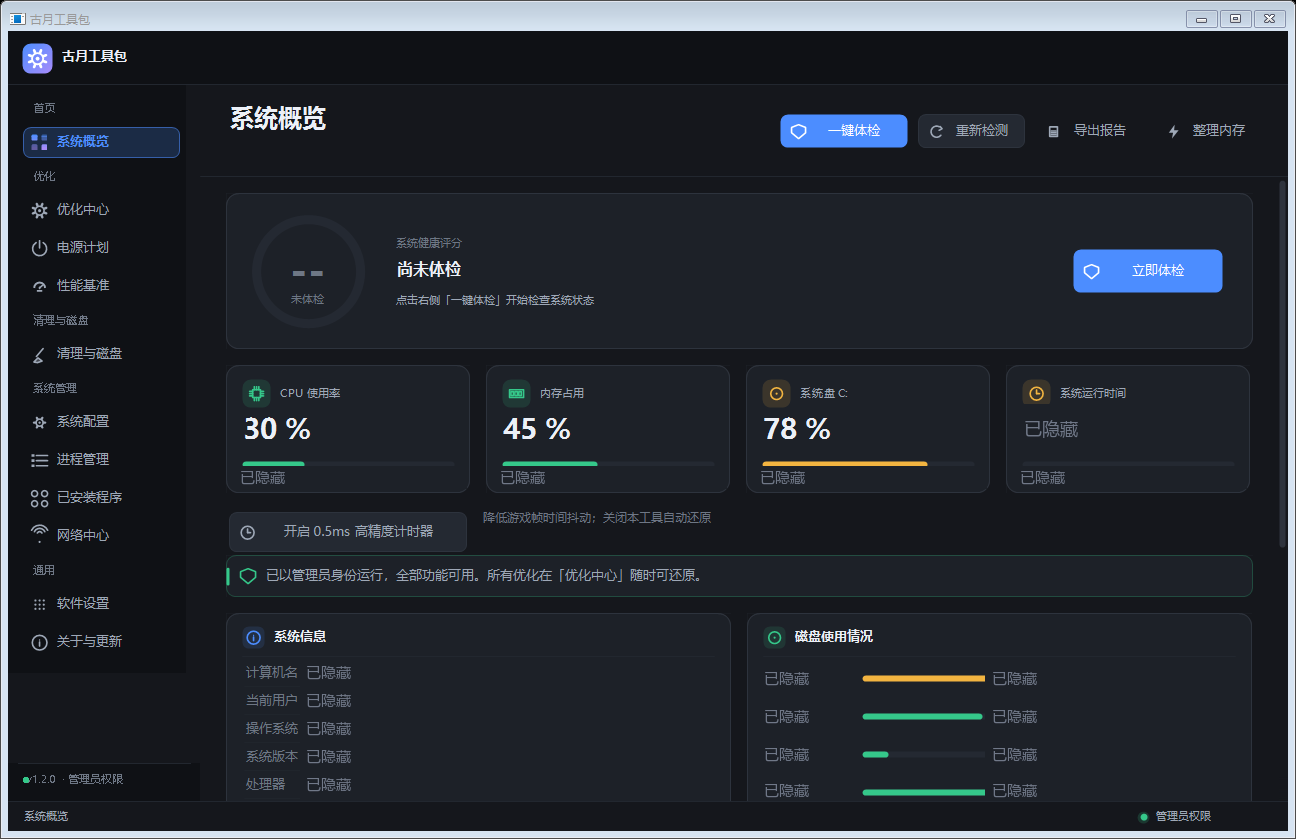
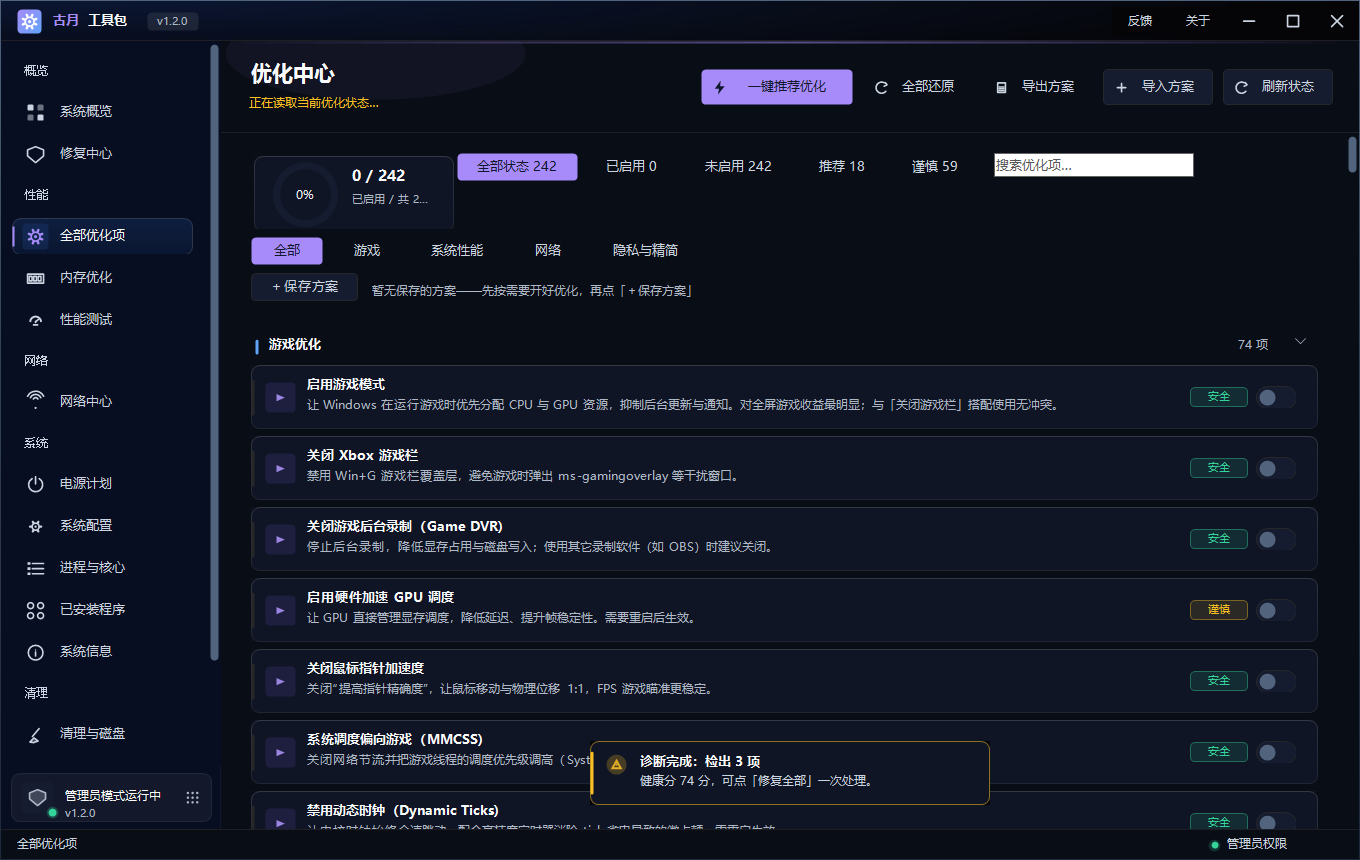
v1.2.0 官网全量更新：index.html 重构为 6 分组 14 页 28 面板（新增修复中心/内存优化/系统信息/CPU核心调度/Hosts编辑/优化包管理）；首屏截图换新版优化中心页；changelog 补 v1.2.0 条目；update.json 换新 exe sha256

diff --git a/index.html b/index.html
@@ -4,20 +4,20 @@
   <meta charset="UTF-8" />
   <meta name="viewport" content="width=device-width, initial-scale=1.0" />
   <title>古月工具包 GuyueBox — Windows 系统优化与管理工具</title>
-  <meta name="description" content="古月工具包（GuyueBox）是一款 Windows 系统优化工具，用 C# / WinForms 编写，单文件免安装。包含 170+ 项可逆系统优化、垃圾与隐私清理、文件粉碎、重复文件、磁盘健康、服务与启动项管理、网络诊断等功能，并内置自动更新。" />
+  <meta name="description" content="古月工具包（GuyueBox）是一款 Windows 系统优化工具，用 C# / WinForms 编写，单文件免安装。包含 170+ 项可逆系统优化、垃圾与隐私清理、文件粉碎、重复文件、磁盘健康、修复中心、进程与核心调度、Hosts 编辑、系统信息等功能，并内置 SHA256 校验的自动更新。" />
   <link rel="canonical" href="https://gu-yue-fy.github.io/guyue-toolbox-site/" />
 
   <!-- ===== 分享 / SEO ===== -->
   <meta property="og:type" content="website" />
   <meta property="og:site_name" content="古月工具包 GuyueBox" />
   <meta property="og:title" content="古月工具包 GuyueBox — Windows 系统优化与管理工具" />
-  <meta property="og:description" content="单文件免安装的 Windows 系统工具：170+ 项可逆优化、垃圾与隐私清理、系统配置管理与网络维护，免费开源。" />
+  <meta property="og:description" content="单文件免安装的 Windows 系统工具：170+ 项可逆优化、垃圾与隐私清理、修复中心、进程与核心调度、网络维护，免费开源。" />
   <meta property="og:url" content="https://gu-yue-fy.github.io/guyue-toolbox-site/" />
   <meta property="og:image" content="https://gu-yue-fy.github.io/guyue-toolbox-site/assets/img/screenshot-main.png" />
   <meta property="og:locale" content="zh_CN" />
   <meta name="twitter:card" content="summary_large_image" />
   <meta name="twitter:title" content="古月工具包 GuyueBox — Windows 系统优化与管理工具" />
-  <meta name="twitter:description" content="单文件免安装的 Windows 系统工具：170+ 项可逆优化、垃圾与隐私清理、系统配置管理与网络维护，免费开源。" />
+  <meta name="twitter:description" content="单文件免安装的 Windows 系统工具：170+ 项可逆优化、垃圾与隐私清理、修复中心、进程与核心调度、网络维护，免费开源。" />
   <meta name="twitter:image" content="https://gu-yue-fy.github.io/guyue-toolbox-site/assets/img/screenshot-main.png" />
 
   <!-- favicon：inline SVG，无需外部文件 -->
@@ -31,11 +31,11 @@
     "name": "古月工具包 GuyueBox",
     "operatingSystem": "Windows 7, Windows 8.1, Windows 10, Windows 11",
     "applicationCategory": "UtilitiesApplication",
-    "softwareVersion": "1.1.0",
+    "softwareVersion": "1.2.0",
     "url": "https://gu-yue-fy.github.io/guyue-toolbox-site/",
     "license": "https://opensource.org/licenses/MIT",
     "offers": { "@type": "Offer", "price": "0", "priceCurrency": "CNY" },
-    "description": "Windows 系统优化与管理工具，C# / WinForms 编写，单文件免安装。包含 170+ 项可逆系统优化、垃圾与隐私清理、文件粉碎、重复文件、磁盘健康、服务与启动项管理、网络诊断，并内置自动更新。"
+    "description": "Windows 系统优化与管理工具，C# / WinForms 编写，单文件免安装。包含 170+ 项可逆系统优化、垃圾与隐私清理、修复中心、进程与核心调度、Hosts 编辑、系统信息，并内置 SHA256 校验的自动更新。"
   }
   </script>
 
@@ -68,29 +68,29 @@
   <section class="hero" id="top">
     <div class="hero-glow"></div>
     <div class="container hero-inner">
-      <span class="badge">最新版本 <span id="latest-version">v1.1.0</span></span>
+      <span class="badge">最新版本 <span id="latest-version">v1.2.0</span></span>
       <h1>古月工具包 <span class="grad">GuyueBox</span></h1>
-      <p class="tagline">一款 Windows 系统优化与管理工具。把常用的系统优化、磁盘清理、系统配置和网络维护集中在一个程序里，单个 exe 免安装运行。</p>
+      <p class="tagline">一款 Windows 系统优化与管理工具。把系统优化、磁盘清理、系统配置、进程与网络维护集中在一个程序里，单个 exe 免安装运行。</p>
       <div class="cta">
         <a class="btn-primary" href="#download">下载</a>
         <a class="btn-ghost" href="https://github.com/Gu-yue-fy/guyue-toolbox" target="_blank" rel="noopener">查看源码</a>
       </div>
       <div class="hero-stats">
         <span><b>170+</b> 项可逆优化</span>
-        <span><b>9</b> 类优化分组</span>
-        <span><b>12</b> 个功能页</span>
-        <span><b>22</b> 个功能面板</span>
+        <span><b>10</b> 类优化分组</span>
+        <span><b>14</b> 个功能页</span>
+        <span><b>28</b> 个功能面板</span>
       </div>
 
-      <!-- 真实界面截图（软件实际运行画面；机器名 / 用户名等隐私字段已遮挡） -->
+      <!-- 真实界面截图（软件实际运行画面；新版顶栏不显示机器名 / 用户名等隐私字段） -->
       <figure class="app-shot">
         <div class="app-shot-bar">
           <span class="dots"><i></i><i></i><i></i></span>
-          <span class="app-shot-title">古月工具包 · 系统概览</span>
+          <span class="app-shot-title">古月工具包 · 全部优化项</span>
         </div>
-        <img src="assets/img/screenshot-main.png" width="1296" height="839" fetchpriority="high" decoding="async"
-             alt="古月工具包主界面截图：左侧为「首页 / 优化 / 清理与磁盘 / 系统管理 / 通用」分组导航，右侧为系统运行状态、资源占用、磁盘信息与一键优化入口" />
-        <figcaption>软件实际运行画面（主界面「系统概览」）</figcaption>
+        <img src="assets/img/screenshot-main.png" width="1360" height="860" fetchpriority="high" decoding="async"
+             alt="古月工具包「全部优化项」页截图：左侧为概览 / 性能 / 网络 / 系统 / 清理 / 设置六组导航，右侧为按分类筛选的开关式优化项列表" />
+        <figcaption>软件实际运行画面（「全部优化项」页）</figcaption>
       </figure>
     </div>
   </section>
@@ -127,90 +127,82 @@
   <section class="section section-alt" id="features">
     <div class="container">
       <h2 class="section-title">功能</h2>
-      <p class="center-sub">共 5 个分组、12 个功能页；其中「清理与磁盘」「系统配置」为多标签页，合计 22 个功能面板。</p>
+      <p class="center-sub">共 6 个分组、14 个功能页；其中 6 个页面为多标签页，合计 28 个功能面板。</p>
 
       <div class="feature-groups">
         <article class="fgroup">
-          <h3>首页</h3>
+          <h3>概览</h3>
           <div class="fpage">
             <span class="fpage-name">系统概览</span>
-            <p>CPU、内存、磁盘的实时占用与系统、硬件信息，并提供一键优化入口。</p>
+            <p>CPU、内存、磁盘的实时占用与系统、硬件信息，提供一键体检评分与常用功能快速入口。</p>
+          </div>
+          <div class="fpage">
+            <span class="fpage-name">修复中心</span>
+            <p>「诊断 → 修复」闭环：健康评分环、10 项扫描、单项或一键修复。只执行清缓存、刷新 DNS、关闭异常代理等安全动作；不动个人文件、不改驱动。</p>
           </div>
         </article>
 
         <article class="fgroup">
-          <h3>优化</h3>
+          <h3>性能</h3>
           <div class="fpage">
-            <span class="fpage-name">优化中心</span>
-            <p>170+ 项开关式优化，按性能、外观与体验、隐私与安全、系统服务、电源与启动、游戏、网络、系统精简、极限性能共 9 类分组。每项可单独开关，改动前自动备份。</p>
+            <span class="fpage-name">全部优化项</span>
+            <p>170+ 项开关式优化的总表，覆盖性能、游戏、网络、电源与启动、系统服务、系统精简、隐私与安全、外观与体验、音频、极限性能共 10 类；页内可按分类筛选、搜索、只看推荐或谨慎项。另支持用外部优化包（JSON 清单）动态扩展优化项。</p>
           </div>
+          <div class="fpage">
+            <span class="fpage-name">内存优化</span>
+            <p>即时清理工具：一键回收待机列表与空闲工作集内存，查看占用排行与内存明细。改的是内存当前状态，不修改注册表。</p>
+          </div>
+          <div class="fpage">
+            <span class="fpage-name">性能测试<span class="fgroup-tag">2 个标签页</span></span>
+            <p>性能基准（9 项测试，输出综合评分并保存历史）与高精度计时器（实测寻优系统定时器精度、降低游戏帧时间抖动，效果仅运行期间有效，退出自动还原）。</p>
+          </div>
+        </article>
+
+        <article class="fgroup">
+          <h3>网络</h3>
+          <div class="fpage">
+            <span class="fpage-name">网络中心<span class="fgroup-tag">2 个标签页</span></span>
+            <p>网络诊断（刷新 DNS 缓存、续约 IP、重置 Winsock / TCP-IP、DNS 预设快切）与 Hosts 文件编辑。</p>
+          </div>
+        </article>
+
+        <article class="fgroup">
+          <h3>系统</h3>
           <div class="fpage">
             <span class="fpage-name">电源计划</span>
-            <p>查看与切换系统电源计划，可新建计划并一键启用「终极性能」。</p>
+            <p>查看与切换系统电源计划，按硬件给出推荐方案。</p>
           </div>
           <div class="fpage">
-            <span class="fpage-name">性能基准</span>
-            <p>9 项测试：CPU 单核 / 多核浮点、内存顺序读 / 写、磁盘顺序写 / 读、AES-256 加密吞吐、GZip 压缩吞吐、磁盘 4K 随机读，输出综合评分并保存历史记录。</p>
-          </div>
-          <div class="fpage">
-            <span class="fpage-name">高精度计时器</span>
-            <p>实测寻优并手动指定系统定时器精度，降低游戏帧时间抖动。由维持线程持续请求所选精度，效果仅在本工具运行期间有效，关闭或退出即自动还原。</p>
-          </div>
-        </article>
-
-        <article class="fgroup">
-          <h3>清理与磁盘<span class="fgroup-tag">6 个标签页</span></h3>
-          <div class="fpage">
-            <span class="fpage-name">垃圾清理</span>
-            <p>扫描并清理 10 类垃圾：回收站、用户临时文件、系统临时文件、Windows 更新缓存、缩略图与图标缓存、浏览器缓存、崩溃转储与错误报告、系统日志、Prefetch、传递优化缓存。</p>
-          </div>
-          <div class="fpage">
-            <span class="fpage-name">隐私清理</span>
-            <p>清除本机使用痕迹，如最近访问记录、运行历史等。</p>
-          </div>
-          <div class="fpage">
-            <span class="fpage-name">文件粉碎</span>
-            <p>以 1~7 次随机数据覆盖的方式彻底删除文件或目录，使内容难以恢复。</p>
-          </div>
-          <div class="fpage">
-            <span class="fpage-name">空间分析</span>
-            <p>按目录统计磁盘占用，找出占空间的大文件与文件夹。</p>
-          </div>
-          <div class="fpage">
-            <span class="fpage-name">重复文件</span>
-            <p>按内容 SHA256 校验找出重复文件，可按组清理。</p>
-          </div>
-          <div class="fpage">
-            <span class="fpage-name">磁盘健康</span>
-            <p>读取硬盘 SMART 信息，查看健康状态与关键参数。</p>
-          </div>
-        </article>
-
-        <article class="fgroup">
-          <h3>系统管理<span class="fgroup-tag">含 1 个 6 标签页</span></h3>
-          <div class="fpage">
-            <span class="fpage-name">系统配置（6 个标签页）</span>
+            <span class="fpage-name">系统配置<span class="fgroup-tag">6 个标签页</span></span>
             <p>服务管理、计划任务、启动项管理、右键菜单、设备管理、系统还原点，集中管理系统的各项配置。</p>
           </div>
           <div class="fpage">
-            <span class="fpage-name">进程管理</span>
-            <p>实时查看正在运行的进程与资源占用，可结束进程、释放内存。</p>
+            <span class="fpage-name">进程与核心<span class="fgroup-tag">2 个标签页</span></span>
+            <p>进程列表（查看 / 结束进程、释放内存）与 CPU 核心调度（设置进程的亲和性与优先级；即时生效，不写注册表、无需还原）。</p>
           </div>
           <div class="fpage">
             <span class="fpage-name">已安装程序</span>
             <p>列出本机已安装的软件，可打开安装位置或卸载选中程序。</p>
           </div>
           <div class="fpage">
-            <span class="fpage-name">网络中心</span>
-            <p>联网状态与网卡总览、网络诊断（刷新 DNS 缓存、续约 IP、重置 Winsock / TCP-IP）、DNS 快切（内置 Cloudflare、Google、AdGuard、OpenDNS 四组预设）、端口占用查询。</p>
+            <span class="fpage-name">系统信息</span>
+            <p>处理器（含大小核判定）、显卡、主板与固件、系统版本、磁盘明细，可导出报告。</p>
           </div>
         </article>
 
         <article class="fgroup">
-          <h3>通用</h3>
+          <h3>清理</h3>
           <div class="fpage">
-            <span class="fpage-name">软件设置</span>
-            <p>6 种主题色、界面动画开关、是否在启动时检查更新。</p>
+            <span class="fpage-name">清理与磁盘<span class="fgroup-tag">6 个标签页</span></span>
+            <p>垃圾清理（10 类：回收站、用户 / 系统临时文件、Windows 更新缓存、缩略图与图标缓存、浏览器缓存、崩溃转储与错误报告、系统日志、Prefetch、传递优化缓存）、隐私清理（清除本机使用痕迹）、文件粉碎（1~7 次随机覆盖删除）、空间分析（按目录统计占用）、重复文件（SHA256 去重）、磁盘健康（SMART 读取）。</p>
+          </div>
+        </article>
+
+        <article class="fgroup">
+          <h3>设置</h3>
+          <div class="fpage">
+            <span class="fpage-name">软件设置<span class="fgroup-tag">2 个标签页</span></span>
+            <p>常规设置（主题色、界面动画、启动时检查更新等）与优化包管理（外部优化包的装载状态与投放位置说明）。</p>
           </div>
           <div class="fpage">
             <span class="fpage-name">关于与更新</span>
@@ -234,12 +226,12 @@
         <div class="step">
           <div class="step-num">2</div>
           <h4>以管理员身份运行</h4>
-          <p>右键 exe 选择「以管理员身份运行」。部分系统级功能需要管理员权限，首页会显示当前权限状态。</p>
+          <p>右键 exe 选择「以管理员身份运行」。部分系统级功能需要管理员权限，页面会显示当前权限状态。</p>
         </div>
         <div class="step">
           <div class="step-num">3</div>
           <h4>按需使用</h4>
-          <p>在左侧选择功能页。优化项可逐项开关，「一键优化」会一次启用推荐项，取消勾选即可还原。</p>
+          <p>在左侧分组导航中选择功能页。优化项可逐项开关，「一键优化」会一次启用推荐项，取消勾选即可还原。</p>
         </div>
         <div class="step">
           <div class="step-num">4</div>
@@ -268,7 +260,7 @@
       </div>
       <p class="center-sub small">
         系统要求：Windows 7 / 8.1 / 10 / 11 · 需要 .NET Framework 4.x（系统自带）· 建议以管理员身份运行<br>
-        当前最新版本：<span id="latest-version-2">v1.1.0</span> · 更新于 <span id="latest-date">—</span><br>
+        当前最新版本：<span id="latest-version-2">v1.2.0</span> · 更新于 <span id="latest-date">—</span><br>
         软件内更新会校验安装包的 SHA256，下载完成后可自行核对校验值。
       </p>
     </div>
@@ -291,7 +283,7 @@
       <h2 class="section-title">常见问题</h2>
       <details class="faq"><summary>支持哪些操作系统？</summary><p>支持 Windows 7 / 8.1 / 10 / 11，32 位与 64 位均可。需要 .NET Framework 4.x，绝大多数系统已自带，无需额外安装。</p></details>
       <details class="faq"><summary>需要付费或激活吗？</summary><p>不需要。软件以 MIT 协议开源，完全免费，没有激活步骤，也没有广告、捆绑或功能限制。</p></details>
-      <details class="faq"><summary>优化会不会把系统改坏？</summary><p>不会。每一项优化在执行前都会备份原注册表或服务值，关掉开关即可还原；涉及风险的操作会二次确认，需要时自动创建系统还原点。此外「系统配置」中还提供还原点管理，可以手动创建还原点。</p></details>
+      <details class="faq"><summary>优化会不会把系统改坏？</summary><p>不会。每一项优化在执行前都会备份原注册表或服务值，关掉开关即可还原；涉及风险的操作会二次确认，需要时自动创建系统还原点。此外「系统配置」中提供还原点管理，可以手动创建还原点；「修复中心」只做清缓存、刷新 DNS 等安全动作，不动个人文件。</p></details>
       <details class="faq"><summary>软件会收集我的数据吗？</summary><p>不会。程序完全在本地运行，不联网上传数据、不做用户追踪。「隐私清理」的作用恰恰是清除本机的使用痕迹。</p></details>
       <details class="faq"><summary>为什么需要管理员权限？</summary><p>修改注册表、管理服务、计划任务、磁盘维护等系统级操作需要管理员权限。以普通权限运行时，程序会提示，多数只读功能仍可正常使用。</p></details>
       <details class="faq"><summary>怎么更新到新版本？</summary><p>软件启动时会自动检查最新版本，也可以在「关于与更新」里手动检查。发现新版本后可一键下载安装，安装包会经过 SHA256 校验。</p></details>
